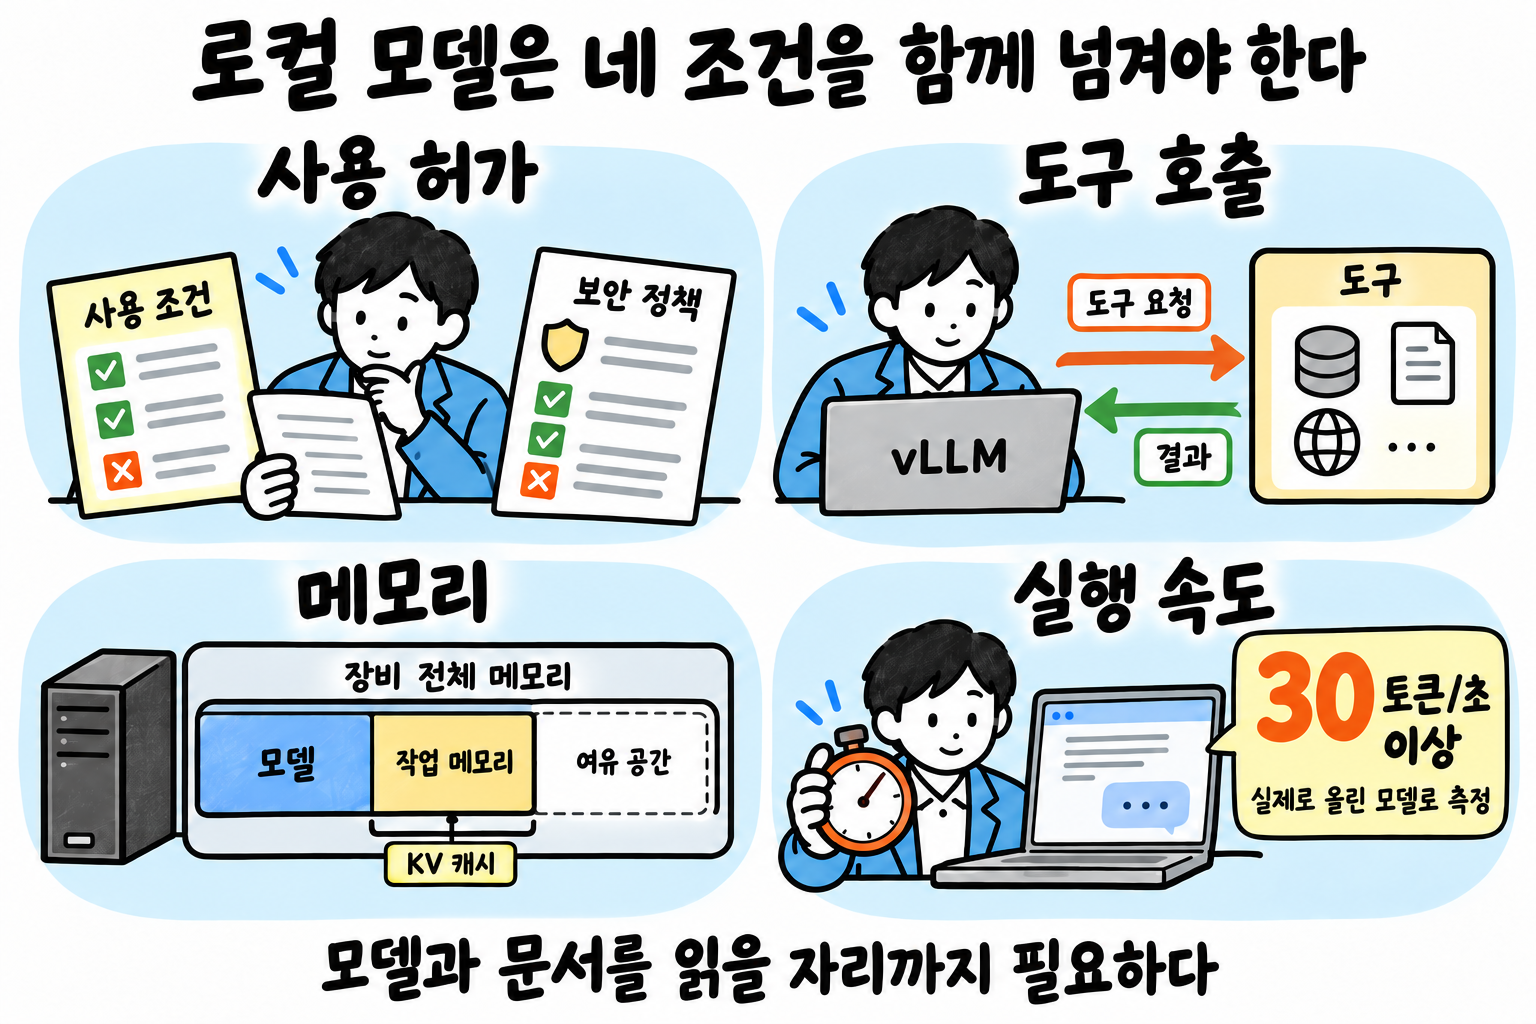
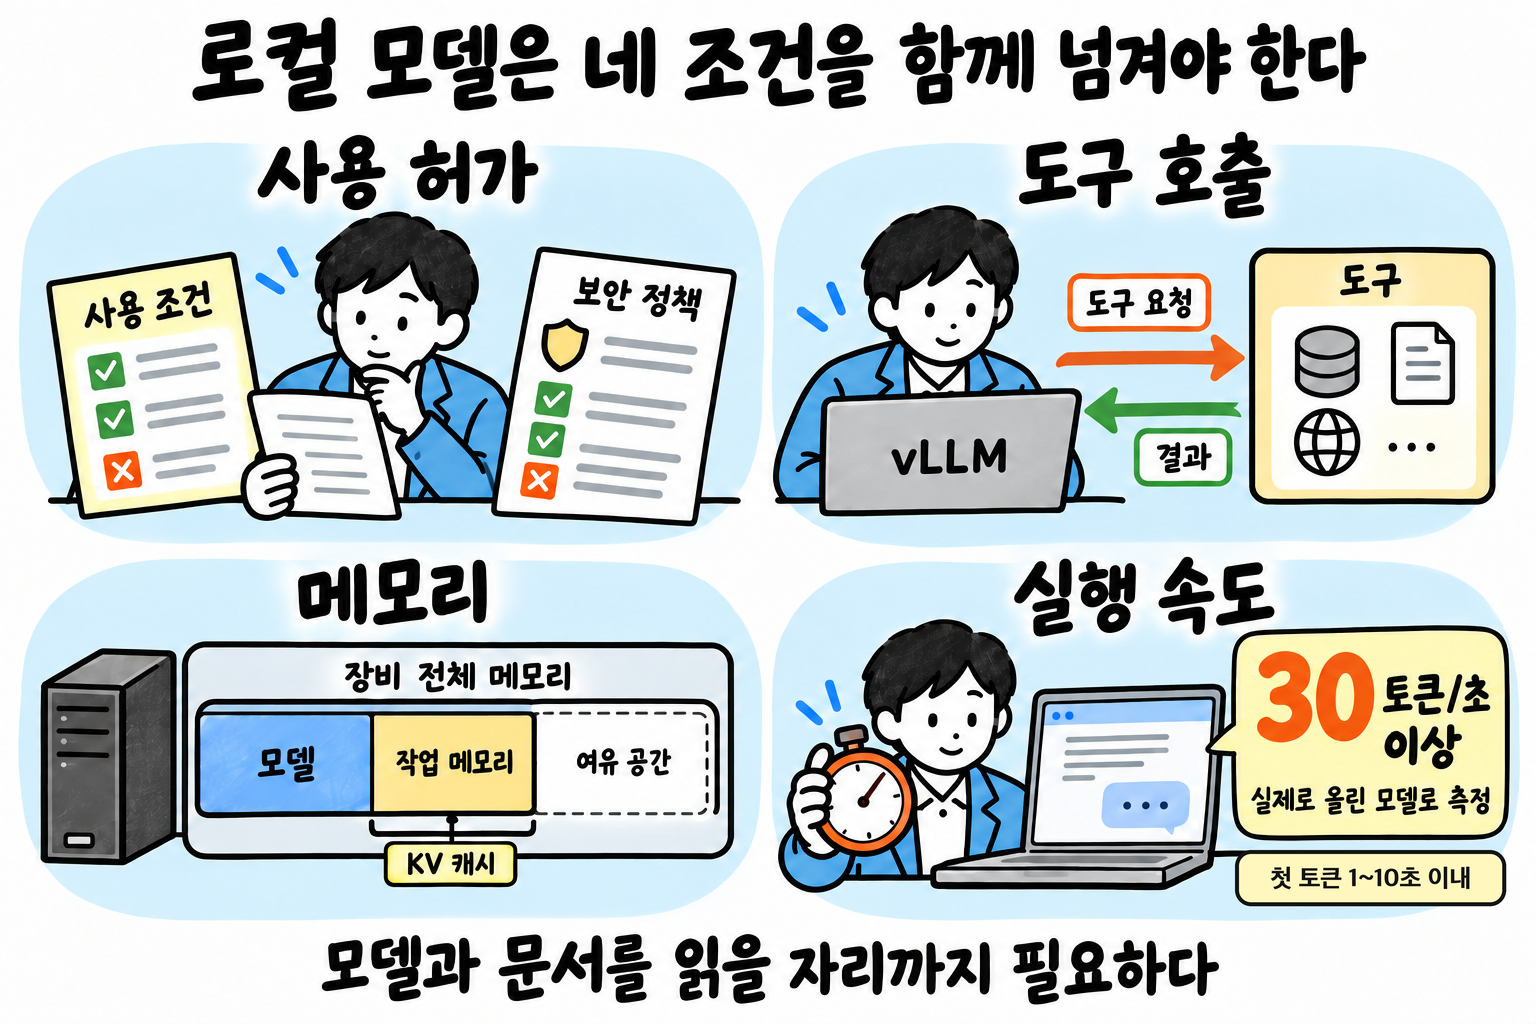
정의 1 — 로컬 모델 속도 기준에 사람 기준점과 첫 토큰 시간을 넣고, 주 모델이 바뀔 때의 절차를 추가함: 속도 칸에 첫 토큰 1초(짧은 질문)·10초(문서 3만 토큰)를 더하고, 30토큰/초를 사람이 한국어를 읽는 속도(약 10자/초)의 3배로 견줌. 환경 표의 주 모델 칸은 '지금의 주 모델'로 바꾸고, 모델 이름을 설정 한 곳에만 적기·한 달에 한 번과 새 소식 때 AA 지수로 다시 거르기·바꾼 뒤 기존 업무 시험 다시 돌리기를 적음. 그림의 속도 칸에 첫 토큰 기준을 더하고 근거는 검토기록에 둠

Changed region(s): [[0.7812, 0.8125, 1.0, 0.9062]]

diff --git a/전문가 에이전트 정의 1.md b/전문가 에이전트 정의 1.md
@@ -1051,7 +1051,7 @@ AI가 판단하고 행동할 수 있게 만드는 **업무 수행의 기반**이
 |------|------|------|------|
 | 예 | Claude Code, Codex | Mybee | Mybee + DGX Spark |
 | 모델이 도는 곳 | 제공사 서버<br>(하네스·도구는 한 사람의 PC) | 사내 서버. 주 모델 MiMo-V2.6-Pro는 가중치 1.02조 개라 8bit로 약 1TB, GPU 메모리 합계가 1.5TB 이상이어야 한다 | DGX Spark 한 대<br>(통합 메모리 128GB) |
-| 주 모델 | Claude Code: Claude Opus 5.5<br>Codex: GPT-6 Astra | MiMo-V2.6-Pro | Qwen3.8-Flash-Next<br>(모델을 API로 빌려주는 사업이나 코딩·사무 보조 AI 제품 사업에 쓰려면 Qwen의 별도 허가가 필요하다) |
+| 지금의 주 모델 | Claude Code: Claude Opus 5.5<br>Codex: GPT-6 Astra | MiMo-V2.6-Pro | Qwen3.8-Flash-Next<br>(모델을 API로 빌려주는 사업이나 코딩·사무 보조 AI 제품 사업에 쓰려면 Qwen의 별도 허가가 필요하다) |
 | 모델 부르기 | 하네스가 부른다 | 사내 플랫폼이 vLLM(모델 실행 프로그램)으로 띄워 부른다 | ②와 같다 |
 | 요금 | 구독 요금 안에서 쓴다 | 장비값만 든다. 부를 때마다 드는 돈은 없다 | ②와 같다 |
 
@@ -1074,7 +1074,13 @@ AI가 판단하고 행동할 수 있게 만드는 **업무 수행의 기반**이
 3. 남은 모델 가운데 AA가 지수를 잴 때 쓴 출력 토큰이 적은 모델을 고른다. 같은 실력이면 적게 쓰는 모델이 빨리 끝나고, 구독 한도와 장비를 덜 쓴다.
 4. 출력 토큰 수도 비슷하면, 그 환경에서 직접 돌려 보아 답을 더 빨리 내는 모델을 고른다.
 
-새 모델 점수가 오르거나 AA가 지수를 개편했을 때 다시 거른다. 모델이 그대로여도 지수가 바뀌면 순위가 바뀐다.
+**주 모델이 바뀔 때**
+
+- 주 모델 이름은 환경 설정 한 곳에만 적는다. ①은 하네스의 모델 설정이고, ②·③은 vLLM 실행 설정이다. 전문가 정의와 지시문에는 이름 대신 "주 모델"이라고 쓴다. 이름을 여러 곳에 적으면 모델이 바뀔 때 빠뜨린 곳이 생긴다.
+- 새 모델이 나왔을 때, AA가 지수를 개편했을 때, 쓰던 모델의 제공이 끝나거나 사용 허가가 바뀌었을 때 위 순서로 다시 거른다. 모델이 그대로여도 지수가 바뀌면 순위가 바뀐다. 이런 소식이 없어도 한 달에 한 번은 다시 거른다. ②·③은 로컬 모델 조건도 다시 잰다.
+- 결과가 지금 주 모델과 같으면 그대로 둔다. 다르면 환경을 맡은 사람에게 알리고, 그 사람이 설정 한 곳을 고쳐 바꾼다.
+- 바꾼 뒤에는 기존 업무 시험을 다시 돌려 되던 일이 그대로 되는지 본다. 모델이 바뀌면 같은 지시도 다르게 읽힐 수 있기 때문이다.
+- 주 모델에 장애가 났다고 바로 다른 모델로 넘기지 않는다. 바꾸는 것은 이 절차를 거친 때뿐이다.
 
 **②·③ 로컬 모델 조건**
 
@@ -1085,7 +1091,7 @@ AI가 판단하고 행동할 수 있게 만드는 **업무 수행의 기반**이
 | 사용 허가 | 가중치가 공개되어 있고, 사내 업무에 써도 된다는 허가가 있으며, 회사 보안 정책이 막지 않는다 | 허가 없이 쓰면 법적 문제가 생긴다 |
 | 도구 호출 | vLLM에서 도구 호출이 된다 | 도구를 못 부르면 에이전트로 쓸 수 없다 |
 | 메모리 | 모델과 함께, 한 건의 문서를 읽을 작업 메모리(KV 캐시)가 장비에 올라간다 | 모델만 올라가면 긴 문서를 못 읽어 일을 끝내지 못한다 |
-| 속도 | 질문 하나를 받았을 때 답을 1초에 30토큰 이상 써 낸다. 용량을 줄여 올리는 모델이면 줄인 그 모델로 잰다 | 이보다 느리면 4만 토큰짜리 긴 작업 한 건이 20분을 넘긴다 |
+| 속도 | 질문을 받고 답의 첫 토큰이 나오기까지 짧은 질문은 1초 이내, 한 건의 문서(3만 토큰)를 넣은 질문은 10초 이내다<br>첫 토큰이 나온 뒤에는 답을 1초에 30토큰 이상 써 낸다<br>용량을 줄여 올리는 모델이면 줄인 그 모델로, 이미 읽어 둔 부분이 없는 새 입력으로 잰다 | 사람은 기다림이 1초를 넘으면 느끼고 10초를 넘으면 딴생각을 한다. 첫 토큰이 늦으면 답이 빨리 써져도 기다리는 시간이 길다<br>사람이 한국어를 읽는 속도는 1초에 한글 약 10자(토큰 약 10개)다. 30토큰은 그 3배라서 읽는 사람이 글을 기다리지 않는다<br>30토큰보다 느리면 4만 토큰짜리 긴 작업 한 건이 20분을 넘긴다 |
 
 ---
 

diff --git a/docs/검토기록/기술검토/속도-기준-근거-2026-10-01.md b/docs/검토기록/기술검토/속도-기준-근거-2026-10-01.md
@@ -1,0 +1,13 @@
+# 로컬 모델 속도 기준의 비교 근거 (2026-10-01 확인)
+
+정의 1의 로컬 모델 조건 '속도'에 쓴 숫자의 근거다.
+
+| 숫자 | 근거 |
+|------|------|
+| 사람이 한국어를 읽는 속도 1초에 약 10자 | 성인 평균 분당 550~650자(리딩아이 학년별 독서 속도 비교표, 업체 자료). 대한안과학회지 2016;57(4) 묵독 연구의 202 어절/분에 어절당 약 2.9음절을 곱하면 분당 약 590자로 같은 범위다(환산은 직접 계산) |
+| 한글 1자 ≈ 토큰 약 1개 | Claude 토크나이저로 잰 한국어는 100자에 약 106토큰(Synthorai). Qwen 토크나이저는 직접 잰 값을 못 찾았고 한글 음절 1자당 1토큰 안팎으로 본다. 모델마다 다르므로 실제 모델로 재 보면 된다 |
+| 1초·10초 | Jakob Nielsen, Response Times: The 3 Important Limits (NN/G). 0.1초는 즉각, 1초는 생각의 흐름이 끊기지 않는 한계, 10초는 주의를 붙들어 두는 한계다 |
+| 3만 토큰 | 한 건의 문서 분량으로 정한 값이다. 한글 3만 자는 사람이 읽는 데 약 50분 걸린다 |
+| 4만 토큰 ÷ 30 = 약 22분 | 계산 |
+
+DGX Spark에서 입력 처리 속도는 모델 크기에 따라 초당 약 800~8,000토큰으로 재어진 사례가 있다(LMSYS, 2025-10-13). 이 값이면 3만 토큰 입력의 첫 토큰은 4~40초가 걸려 10초 기준이 모델을 가른다. ③의 주 모델은 실제로 올려 재어야 한다.
